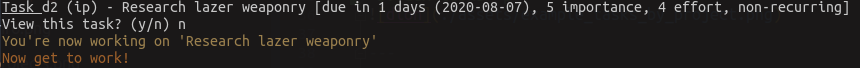
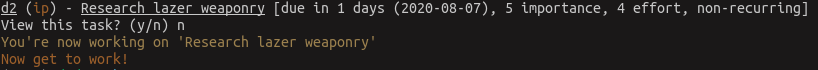
update exec interface and readme

diff --git a/dex/cmd.py b/dex/cmd.py
@@ -211,7 +211,7 @@ def ask_for_yn(prompt, action=None):
 
 
 def print_task_work_interface(task):
-    print(ts.f("u", f"Task {get_task_string(task)}"))
+    print(get_task_string(task, colorize_status=True, id_color="u", name_color="u"))
     ask_for_yn("View this task?", action=task.view)
     task.set_status(ip_str)
     print(ts.f(SUCCESS_COLOR, f"You're now working on '{task.name}'"))
@@ -301,7 +301,7 @@ def init(path, ignore):
     print(f"{descriptor.capitalize()} executor initialized in path: {path}")
 
 
-# dex work
+# dex exec
 @cli.command(help="Automatically determine most important task and start work.")
 @click.pass_context
 def exec(ctx):

diff --git a/README.md b/README.md
@@ -9,6 +9,9 @@
 `dex` is an out-of-the-box usable, optionally programmatic kanban-ish FOSS productivity CLI which you have absolute control over. 
 Keep your tasks as local markdown files and `dex` will tell you how to optimally execute them. 
 
+![dex](./assets/dex.jpeg)
+###### Dex from "*Star Wars: Attack of the Clones*", who helps Obi-wan prioritize his time searching for a poison dart.
+
 # Is `dex` for me?
 #### Take this quiz.
 
@@ -22,10 +25,16 @@ Keep your tasks as local markdown files and `dex` will tell you how to optimally
 
 
 # Highlights
-##### View tasks across all projects, ordered intelligently by importance
+##### View tasks across all projects, ordered intelligently by priority
 
 `$: dex tasks`
 ![dex](./assets/example_tasks.png)
+
+A little less detail
+
+`$: dex tasks -h -n 7`
+![dex](./assets/example_tasks_less.png)
+
 
 ---
 
@@ -100,7 +109,7 @@ $: tree
 
 # The System
 
-#### Tasks (unit of work)
+#### Tasks (units of work)
 
 Tasks are non-trivial, self-contained units of work. They are individual markdown files. The file name is the name of the task; the contents are whatever you want them to be (notes, subtasks, nothing, etc.).
 
@@ -108,8 +117,8 @@ Tasks are non-trivial, self-contained units of work. They are individual markdow
 
 - **Status**: Todo, In progress (IP), On hold, Done, and Abandoned
 - **Effort**: How much effort (approximately) the task will take to complete (a number, 1-5)
-- **Importance**: How important the task is (a number, 1-5). Effort of 5 might be something that could get you promoted, while effort of 1 has almost no consequences.
-- **Due date**: When the task is due.
+- **Importance**: How important the task is (a number, 1-5). Effort of 5 might be something that could get you promoted (or fired!), while effort of 1 has almost no consequences.
+- **Due date**: Day when the task is due.
 
 
 #### Projects (collection of tasks)
@@ -119,7 +128,7 @@ Projects are long-standing collections of tasks. Projects are folders. Besides c
 
 #### Executor (schedule of projects)
 
-A schedule is your entire set of projects. Your schedule is defined weekly; you can work on one or more projects per day. For example, you work on Projects A and B on MWF, and Project C on Tuesday/Thursday, with Projects D and E on weekends. Your schedule is defined in a single json file in a folder containing your dex project folders.
+The executor is your entire set of projects defined a weekly; you can work on one or more projects per day. For example, you work on Projects A and B on MWF, and Project C on Tuesday/Thursday, with Projects D and E on weekends. Or you can work on every project every day; it's really up to you.
 
 #### Work
 
